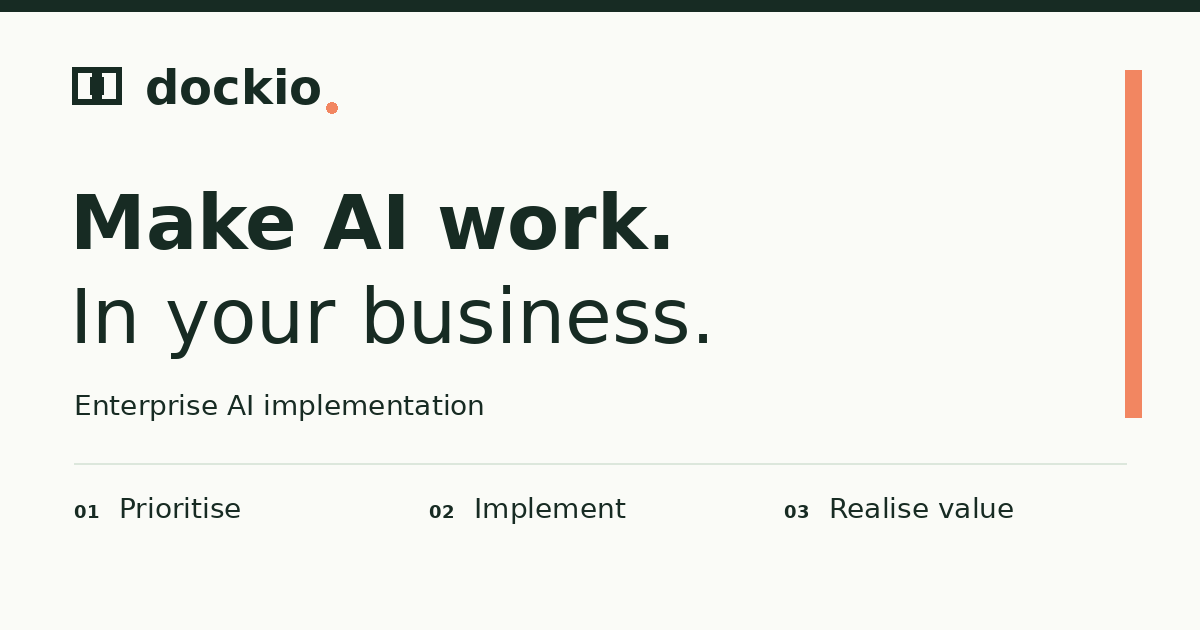
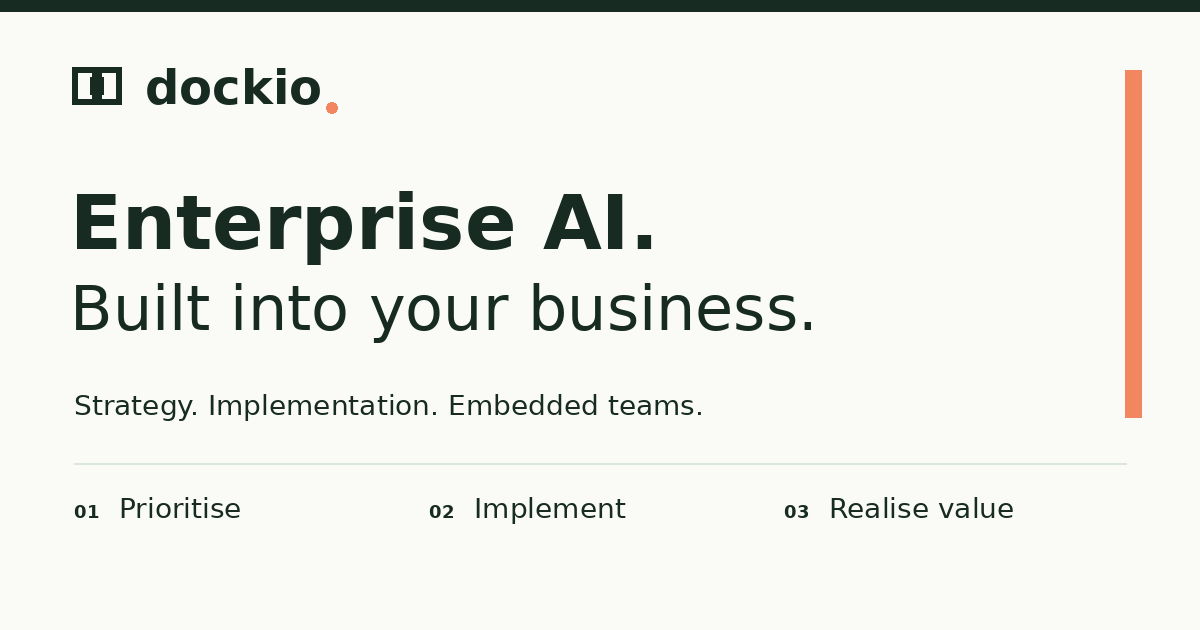
Create executive multi-page site and short enquiry flow (#22)

Changed region(s): [[0.0617, 0.4524, 0.6783, 0.573], [0.0617, 0.3016, 0.555, 0.4222], [0.0617, 0.6333, 0.5858, 0.6635]]

diff --git a/dockio-site/enterprise.css b/dockio-site/enterprise.css
@@ -1,0 +1,12 @@
+.enterprise-brand-type{display:flex;flex-direction:column;gap:5px;line-height:.85}.enterprise-brand-type>span{white-space:nowrap}.enterprise-brand-type small{font-size:9px;letter-spacing:.14em;text-transform:uppercase;font-weight:500;color:#617164;line-height:1.2}.site-header .nav-link>span{display:none}.enterprise-nav-book{display:flex;align-items:center;gap:10px;font-size:11px;white-space:nowrap;text-decoration:none;color:#42594a}.enterprise-nav-book:hover{color:#b15d3e}.enterprise-nav-book span{font-size:13px}.enterprise-button{display:inline-flex;align-items:center;justify-content:space-between;gap:28px;background:#173c2d;color:#fff;text-decoration:none;padding:16px 21px;font-size:13px;min-height:52px;box-sizing:border-box;transition:background .2s}.enterprise-button:hover{background:#2b5540}.enterprise-button span{font-weight:400}.enterprise-link,.enterprise-text-action,.enterprise-book{display:inline-flex;align-items:center;gap:17px;font-size:13px;line-height:1.6;color:inherit;text-decoration:none}.enterprise-link{border-bottom:1px solid #b6c5b0;padding-bottom:6px;margin-top:20px}.enterprise-link:hover,.enterprise-book:hover,.enterprise-text-action:hover{color:#a85b3d}.enterprise-text-action{padding:13px 0}.enterprise-actions{display:flex;gap:25px;align-items:center;flex-wrap:wrap;margin-top:29px}.enterprise-home-hero{display:grid;grid-template-columns:1.08fr .92fr;background:#f1f4ec;min-height:630px}.enterprise-home-copy{padding:62px 5vw 53px;display:flex;flex-direction:column;align-items:flex-start;justify-content:center}.enterprise-home-copy h1{font-size:clamp(49px,5.5vw,82px);font-weight:400;letter-spacing:-.065em;line-height:1.025;margin:23px 0 22px;color:#173c2d}.enterprise-home-copy h1 em{font-style:normal;color:#7c8f75}.enterprise-home-copy>p{font-size:18px;line-height:1.65;max-width:480px;color:#526355;margin:0}.enterprise-home-credential{display:flex;align-items:center;gap:23px;margin-top:34px;color:#60705f;font-size:11px;line-height:1.7}.enterprise-home-credential img{width:134px;height:auto;background:#fff;padding:7px}.enterprise-home-photo{position:relative;margin:0;min-width:0;overflow:hidden}.enterprise-home-photo>img{width:100%;height:100%;object-fit:cover;object-position:43% 50%;position:absolute}.enterprise-home-photo:after{content:'';position:absolute;inset:55% 0 0;background:linear-gradient(transparent,#102d22c2)}.enterprise-home-photo figcaption{position:absolute;z-index:1;bottom:27px;left:30px;right:25px;color:#fff}.enterprise-home-photo figcaption>span{font-size:18px;line-height:1.5;display:block}.enterprise-home-photo small{display:block;font-size:8px;letter-spacing:.1em;text-transform:uppercase;opacity:.8;margin-top:9px}.enterprise-industry-strip{display:grid;grid-template-columns:auto 1fr auto;gap:30px;align-items:center;padding-top:25px;padding-bottom:25px;border-bottom:1px solid #ced7c7}.enterprise-industry-strip>span{font-size:9px;font-weight:600;letter-spacing:.12em;color:#8d4c37}.enterprise-industry-strip>div{display:flex;gap:25px;justify-content:center;flex-wrap:wrap}.enterprise-industry-strip .enterprise-link{font-size:12px;margin:0;border:0;padding:0;white-space:nowrap}.enterprise-industry-strip>div .enterprise-link span{display:none}.enterprise-industry-strip>.enterprise-link{font-size:11px;border-bottom:1px solid #bdc8b7;padding-bottom:4px}.enterprise-section{padding-top:78px;padding-bottom:78px}.enterprise-section-head{margin-bottom:37px}.enterprise-section h2,.enterprise-home-offer h2,.enterprise-close h2,.enterprise-related h2{font-size:clamp(32px,3.7vw,51px);font-weight:400;letter-spacing:-.047em;line-height:1.12;margin:17px 0}.enterprise-two{display:grid;grid-template-columns:1fr 1fr;gap:7%}.enterprise-buyer{border-top:1px solid #aebda5;padding-top:25px}.enterprise-buyer>span{font-size:10px;letter-spacing:.1em;color:#8d4c37;font-weight:600}.enterprise-buyer h3{font-size:31px;font-weight:400;letter-spacing:-.03em;line-height:1.18;margin:24px 0 17px}.enterprise-buyer p{font-size:16px;line-height:1.7;color:#536456;max-width:470px}.enterprise-soft{background:#edf2e8}.enterprise-home-offer{padding:66px 0 75px}.enterprise-offer-title{display:flex;align-items:flex-end;justify-content:space-between;gap:30px;margin-bottom:30px}.enterprise-offer-title>.enterprise-link{margin-bottom:17px}.enterprise-offer-links{display:grid;grid-template-columns:repeat(4,1fr);gap:28px}.enterprise-offer-links>a{position:relative;text-decoration:none;border-top:1px solid #b6c5ac;padding-top:23px;padding-right:18px;color:#173c2d;display:flex;flex-direction:column;align-items:flex-start}.enterprise-offer-links>a>span{font-size:10px;color:#8d4c37}.enterprise-offer-links h3{font-size:23px;font-weight:400;line-height:1.2;letter-spacing:-.02em;margin:22px 0 14px}.enterprise-offer-links p{font-size:13px;line-height:1.7;color:#60715e;margin:0}.enterprise-offer-links b{font-size:19px;font-weight:400;margin-top:18px}.enterprise-offer-links a:hover h3{text-decoration:underline;text-underline-offset:5px}.enterprise-close{padding:52px 0;background:#173c2d;color:white}.enterprise-close>.wrap{display:flex;align-items:center;justify-content:space-between;gap:40px}.enterprise-close h2{font-size:38px;margin:15px 0 0;max-width:620px}.enterprise-close .gsi-label{color:#e4ad91}.enterprise-close>.wrap>div:last-child{display:flex;flex-direction:column;align-items:flex-start;gap:16px;flex-shrink:0}.enterprise-close .enterprise-button{background:#f1f3e9;color:#173c2d;min-width:220px}.enterprise-close .enterprise-book{color:#fff;margin-left:3px;font-size:12px}.enterprise-page-head{padding-top:48px;padding-bottom:64px}.enterprise-page-head h1,.enterprise-trust-hero h1{font-size:clamp(42px,4.7vw,68px);font-weight:400;line-height:1.07;letter-spacing:-.055em;margin:21px 0 25px;max-width:900px}.enterprise-page-head>p,.enterprise-trust-hero p{font-size:19px;line-height:1.7;color:#526355;max-width:720px}.enterprise-fit{display:grid;grid-template-columns:.6fr 1.4fr;gap:6%;border-top:1px solid #c7d2bf;border-bottom:1px solid #c7d2bf;padding-top:30px;padding-bottom:30px}.enterprise-fit p{font-size:21px;line-height:1.6;max-width:760px;color:#425b48;margin:0}.enterprise-three{display:grid;grid-template-columns:repeat(3,1fr);gap:40px}.enterprise-three article{border-top:1px solid #b9c8b1;padding-top:24px}.enterprise-three article>span{font-size:10px;color:#9d563d}.enterprise-three h3{font-size:26px;font-weight:400;line-height:1.2;letter-spacing:-.025em;margin:24px 0 17px}.enterprise-three p,.enterprise-two p,.enterprise-related p{font-size:16px;line-height:1.75;color:#586b5a}.enterprise-related{display:grid;grid-template-columns:1.15fr .85fr;gap:10%;align-items:center}.enterprise-related>div:last-child{display:flex;flex-direction:column;align-items:flex-start;gap:15px}.enterprise-related .enterprise-link{margin-top:0}.enterprise-related h2{font-size:34px}.enterprise-service-list{padding-bottom:70px}.enterprise-service-list article{display:grid;grid-template-columns:45px 1fr 1.1fr;gap:35px;padding:38px 0;border-top:1px solid #c4d0bd}.enterprise-service-list article>span{font-size:10px;color:#9d563d;padding-top:8px}.enterprise-service-list h2{font-size:32px;line-height:1.17;font-weight:400;letter-spacing:-.035em;margin:0 0 16px}.enterprise-service-list p{font-size:16px;color:#526655;line-height:1.75;margin:0}.enterprise-service-list .enterprise-link{margin-right:20px;font-size:12px}.enterprise-sector-hub{display:grid;grid-template-columns:repeat(2,1fr);gap:42px 30px;padding-bottom:60px}.enterprise-sector-hub article{min-width:0}.enterprise-sector-image{display:block;height:270px;overflow:hidden}.enterprise-sector-image img{width:100%;height:100%;object-fit:cover;display:block;transition:transform .4s}.enterprise-sector-image:hover img{transform:scale(1.025)}.enterprise-sector-hub article>div{padding:22px 0}.enterprise-sector-hub h2{font-size:29px;line-height:1.2;font-weight:400;letter-spacing:-.03em;margin:11px 0 16px}.enterprise-sector-hub p{font-size:14px;color:#60715e;line-height:1.7;margin:0}.enterprise-sector-hub .enterprise-link{font-size:12px;margin-top:18px}.enterprise-sector-hub article:last-child{grid-column:1/-1;display:grid;grid-template-columns:1fr 1fr;gap:40px;align-items:center;background:#edf2e8}.enterprise-sector-hub article:last-child>div{padding:30px}.enterprise-trust-hero{background:#edf2e8;padding:52px 0 65px}.enterprise-trust-hero>.wrap{display:grid;grid-template-columns:1.45fr .55fr;gap:9%;align-items:center}.enterprise-trust-hero aside{border-left:1px solid #becdb4;padding:20px 0 20px 35px}.enterprise-trust-hero aside img{width:170px;height:auto;background:white;padding:11px;margin-bottom:22px}.enterprise-trust-hero aside>span{display:block;font-size:9px;letter-spacing:.12em;color:#8b4e39;font-weight:600}.enterprise-trust-hero aside p{font-size:14px;line-height:1.8;margin-top:17px}.enterprise-trust-hero aside .enterprise-link{font-size:12px}.enterprise-leader{display:grid;grid-template-columns:1fr 1fr;gap:9%}.enterprise-leader h3{font-size:30px;font-weight:400;letter-spacing:-.035em;margin:10px 0}.enterprise-leader>div>span{font-size:12px;color:#a35b3e}.enterprise-leader p{font-size:17px;line-height:1.8;color:#536756;margin:20px 0}.enterprise-experience-list>p{border-top:1px solid #c5d1be;padding-top:17px;margin-top:0;font-size:18px}.enterprise-experience-list>p>span{font-size:10px;color:#9d563d;margin-right:27px}.enterprise-experience-list small{font-size:11px;line-height:1.7;color:#67785f;display:block}.enterprise-evidence{display:grid;grid-template-columns:repeat(3,1fr);gap:35px}.enterprise-evidence article{border-top:1px solid #bccab4;padding-top:24px}.enterprise-evidence h3{font-size:24px;font-weight:400;letter-spacing:-.025em;line-height:1.25;margin:0 0 18px}.enterprise-evidence p{font-size:15px;line-height:1.75;color:#536756}.enterprise-evidence .enterprise-link{font-size:12px}.enterprise-company-facts{display:grid;grid-template-columns:1.3fr .7fr 1fr;gap:30px;padding-bottom:70px}.enterprise-company-facts>div{border-top:1px solid #c5d1be;padding-top:25px}.enterprise-company-facts span{font-size:9px;letter-spacing:.12em;color:#9d563d}.enterprise-company-facts p,.enterprise-company-facts a{font-size:14px;line-height:1.75;margin-top:15px;display:block}.enterprise-footer-main{display:grid;grid-template-columns:1.4fr repeat(3,1fr);gap:50px;padding:10px 0 50px}.enterprise-footer-main .footer-links .enterprise-link{display:block;border:0;font-size:12px;font-weight:400;padding:0;margin:0 0 11px}.enterprise-footer-main .footer-links .enterprise-link span{display:none}.enterprise-footer-main .footer-links h3{margin-bottom:22px}.enterprise-footer-bottom{display:flex;justify-content:space-between;border-top:1px solid #415b46;padding:22px 0 25px;font-size:9px;color:#cad6c5}.enterprise-footer-main .footer-brand p{font-size:13px;line-height:1.8}.enterprise-footer-main .footer-brand>a:not(.brand){font-size:12px}.enterprise-footer-main .footer-brand>span{font-size:11px}.enterprise-button:focus-visible,.enterprise-link:focus-visible,.enterprise-book:focus-visible,.enterprise-text-action:focus-visible,.enterprise-nav-book:focus-visible{outline:3px solid #b56d48;outline-offset:5px}
+/* A short requirement precedes optional detail and a separate calendar step. */
+.discussion-head{padding-top:36px;padding-bottom:35px}.discussion-head h1{font-size:clamp(42px,4.5vw,65px);letter-spacing:-.055em;line-height:1.08;font-weight:400}.discussion-head h1 em{color:#809475}.discussion-head .lead{font-size:18px;line-height:1.7;max-width:690px}.discussion-intake{grid-template-columns:.68fr 1.32fr;gap:75px;padding-bottom:75px}.discussion-intake aside h2{font-size:27px;font-weight:400}.discussion-steps{list-style:none;padding:0;margin:0 0 25px;display:flex;gap:20px;flex-wrap:wrap;font-size:11px;color:#687c61}.discussion-steps li{display:flex;align-items:center;gap:9px}.discussion-steps strong{font-weight:500;color:#173c2d}.discussion-steps li:first-child{color:#173c2d}.discussion-speak-first{background:#edf2e8;padding:23px 25px;margin:25px 0}.discussion-speak-first h3{font-size:19px;font-weight:400;margin:0 0 13px}.discussion-speak-first .text-link{font-size:13px}.discussion-speak-first p{font-size:12px!important;line-height:1.75!important}.discussion-context{border-left:2px solid #a6b896;padding:6px 0 6px 14px;font-size:12px;color:#5b7155;margin:0 0 26px}.discussion-outcome{margin-top:22px}.discussion-optional{color:#73816c;font-size:11px}.discussion-details{border-top:1px solid #c0cfb8;border-bottom:1px solid #c0cfb8;margin:25px 0}.discussion-details summary{cursor:pointer;font-size:13px;padding:19px 0;line-height:1.6;font-weight:500}.discussion-details-body{padding:8px 0 8px}.discussion-details-body .teams-form-grid{margin-bottom:20px}.discussion-privacy-note{font-size:11px!important;line-height:1.8!important;color:#64785d}.discussion-intake form>.button{margin-top:0}.discussion-intake form label{font-size:12px}.discussion-intake .teams-consent{font-size:11px;line-height:1.8;align-items:flex-start}.discussion-confirmation{padding:30px;background:#edf2e8;scroll-margin-top:110px}.discussion-confirmation h2{font-size:36px;font-weight:400;letter-spacing:-.04em;line-height:1.12;margin:18px 0 22px}.discussion-confirmation p{font-size:15px;line-height:1.75;color:#536655;margin:16px 0}.discussion-reference{font-size:12px!important;overflow-wrap:anywhere}.discussion-confirmation-actions{display:flex;flex-wrap:wrap;gap:14px;align-items:center;margin:25px 0}.discussion-confirmation-actions .button{font-size:12px}.discussion-confirmation>button{margin-top:20px}.discussion-intake input,.discussion-intake textarea,.discussion-intake select{font-size:15px}.discussion-intake [hidden]{display:none!important}
+@media(min-width:1600px){.enterprise-home-copy{padding-left:max(5vw,calc((100vw - 1440px)/2))}.enterprise-home-hero{min-height:700px}}
+@media(max-width:1200px){.enterprise-nav-book{display:none}#site-navigation{gap:24px}.enterprise-industry-strip{grid-template-columns:1fr auto;gap:16px}.enterprise-industry-strip>span{grid-column:1/-1}.enterprise-industry-strip>div{justify-content:flex-start;gap:25px}.enterprise-home-copy{padding:60px 5vw}.enterprise-home-copy h1{font-size:64px}.enterprise-home-copy>p{font-size:17px}.enterprise-home-hero{min-height:620px}.enterprise-home-credential{gap:15px}.enterprise-home-credential>span{font-size:10px}.enterprise-offer-links{gap:24px}.enterprise-offer-links h3{font-size:21px}}
+@media(max-width:950px){.enterprise-home-hero{grid-template-columns:1.1fr .9fr}.enterprise-home-copy h1{font-size:56px}.enterprise-home-copy{padding:50px 4vw}.enterprise-home-copy>p{font-size:16px}.enterprise-home-copy .enterprise-actions{gap:20px}.enterprise-home-copy .enterprise-button{font-size:12px;padding:14px 16px;gap:15px}.enterprise-home-credential{flex-wrap:wrap;gap:14px}.enterprise-home-credential img{width:122px}.enterprise-home-hero{min-height:620px}.enterprise-home-photo figcaption{left:22px;bottom:22px}.enterprise-home-photo figcaption>span{font-size:16px}.enterprise-offer-links{grid-template-columns:repeat(2,1fr);gap:35px}.enterprise-service-list article{grid-template-columns:28px 1fr 1.2fr;gap:24px}.enterprise-sector-hub{gap:30px 24px}.enterprise-sector-image{height:230px}.enterprise-sector-hub h2{font-size:26px}.enterprise-trust-hero>.wrap{grid-template-columns:1.3fr .7fr;gap:6%}.enterprise-trust-hero aside{padding-left:25px}.enterprise-trust-hero h1{font-size:53px}.enterprise-trust-hero aside img{width:145px}.enterprise-trust-hero .enterprise-actions{gap:15px}.discussion-intake{gap:40px}.enterprise-footer-main{gap:30px}}
+@media(max-width:880px){.enterprise-nav-book{display:flex;padding:21px 0 0;font-size:14px}.enterprise-brand-type small{font-size:8px}.enterprise-close>.wrap{align-items:flex-start}.enterprise-close h2{font-size:32px}.enterprise-close .enterprise-button{min-width:195px}.enterprise-three,.enterprise-evidence{gap:25px}.enterprise-three h3{font-size:23px}.enterprise-leader{gap:7%}.enterprise-related{gap:7%}.enterprise-footer-main{grid-template-columns:1.2fr 1fr 1fr}.enterprise-footer-main .footer-brand{grid-column:1/-1}.enterprise-footer-main .footer-links:last-child{grid-column:auto}}
+@media(max-width:680px){.enterprise-home-hero{grid-template-columns:1fr;min-height:0}.enterprise-home-copy{padding:42px 6% 40px}.enterprise-home-copy h1{font-size:clamp(48px,11.5vw,66px);margin:21px 0}.enterprise-home-copy>p{font-size:17px;max-width:470px}.enterprise-home-copy .gsi-label{font-size:9px}.enterprise-home-copy .enterprise-actions{gap:23px;margin-top:25px}.enterprise-home-copy .enterprise-button{font-size:12px;min-height:50px;padding:15px 18px;gap:23px}.enterprise-home-copy .enterprise-text-action{font-size:12px}.enterprise-home-credential{gap:18px;flex-wrap:nowrap;margin-top:30px}.enterprise-home-credential img{width:125px}.enterprise-home-credential>span{font-size:10px;line-height:1.8}.enterprise-home-photo{height:310px}.enterprise-home-photo>img{object-position:50% 42%}.enterprise-home-photo figcaption{left:24px;bottom:22px}.enterprise-home-photo figcaption>span{font-size:16px}.enterprise-industry-strip{grid-template-columns:1fr;padding-top:22px;padding-bottom:22px;gap:18px}.enterprise-industry-strip>span{grid-column:auto}.enterprise-industry-strip>div{gap:12px 23px}.enterprise-industry-strip .enterprise-link{font-size:12px}.enterprise-industry-strip>.enterprise-link{justify-self:start;font-size:11px}.enterprise-section{padding-top:55px;padding-bottom:55px}.enterprise-section-head{margin-bottom:30px}.enterprise-section h2,.enterprise-home-offer h2{font-size:36px}.enterprise-two{grid-template-columns:1fr;gap:34px}.enterprise-buyer h3{font-size:29px;margin-top:20px}.enterprise-buyer p{font-size:16px}.enterprise-buyer .enterprise-link{margin-top:17px}.enterprise-home-offer{padding:53px 0 57px}.enterprise-offer-title{display:block;margin-bottom:23px}.enterprise-offer-title>.enterprise-link{margin:9px 0 16px}.enterprise-offer-links{gap:29px 23px}.enterprise-offer-links h3{font-size:21px;line-height:1.2;margin:18px 0 13px}.enterprise-offer-links p{font-size:12px}.enterprise-close{padding:42px 0}.enterprise-close>.wrap{display:block}.enterprise-close h2{font-size:33px;max-width:350px}.enterprise-close>.wrap>div:last-child{margin-top:27px;gap:20px}.enterprise-close .enterprise-button{min-width:215px}.enterprise-page-head{padding-top:34px;padding-bottom:46px}.enterprise-page-head h1{font-size:44px;line-height:1.08;margin:20px 0 23px}.enterprise-page-head>p{font-size:17px}.enterprise-actions{gap:23px}.enterprise-fit{grid-template-columns:1fr;gap:18px;padding-top:26px;padding-bottom:26px}.enterprise-fit p{font-size:19px}.enterprise-three{grid-template-columns:1fr;gap:30px}.enterprise-three h3{font-size:27px;margin:20px 0 15px}.enterprise-related{grid-template-columns:1fr;gap:30px}.enterprise-related h2{font-size:31px}.enterprise-related>div:last-child{gap:18px}.enterprise-service-list{padding-bottom:45px}.enterprise-service-list article{grid-template-columns:22px 1fr;gap:12px 20px;padding:30px 0}.enterprise-service-list article>div:last-child{grid-column:2}.enterprise-service-list h2{font-size:29px;margin:0 0 15px}.enterprise-service-list p{font-size:15px}.enterprise-service-list .enterprise-link{font-size:12px;margin-top:21px}.enterprise-sector-hub{grid-template-columns:1fr;gap:25px;padding-bottom:40px}.enterprise-sector-image{height:250px}.enterprise-sector-hub h2{font-size:29px}.enterprise-sector-hub article:last-child{grid-column:auto;display:block}.enterprise-sector-hub article:last-child>div{padding:25px}.enterprise-trust-hero{padding:35px 0 42px}.enterprise-trust-hero>.wrap{grid-template-columns:1fr;gap:32px}.enterprise-trust-hero h1{font-size:43px;line-height:1.09}.enterprise-trust-hero p{font-size:17px}.enterprise-trust-hero .enterprise-actions{gap:19px}.enterprise-trust-hero aside{border-left:0;border-top:1px solid #becdb4;padding:28px 0 0}.enterprise-trust-hero aside img{width:140px;margin-bottom:20px}.enterprise-trust-hero aside p{max-width:400px;font-size:14px}.enterprise-leader{grid-template-columns:1fr;gap:33px}.enterprise-leader h3{font-size:29px}.enterprise-leader p{font-size:16px}.enterprise-experience-list p{font-size:18px}.enterprise-evidence{grid-template-columns:1fr;gap:30px}.enterprise-evidence h3{font-size:25px}.enterprise-company-facts{grid-template-columns:1fr;gap:25px;padding-bottom:55px}.enterprise-company-facts>div{padding-top:20px}.enterprise-company-facts p,.enterprise-company-facts a{margin-top:10px}.enterprise-footer-main{grid-template-columns:1fr 1fr;gap:30px 25px;padding:0 0 35px}.enterprise-footer-main .footer-brand{margin-bottom:5px}.enterprise-footer-main .footer-links:nth-child(2){grid-column:auto}.enterprise-footer-main .footer-links h3{margin-bottom:17px}.enterprise-footer-main .footer-links .enterprise-link{font-size:12px;margin-bottom:12px;line-height:1.7}.enterprise-footer-bottom{display:flex;flex-direction:column;gap:12px;font-size:9px;padding-bottom:24px}.discussion-head{padding-bottom:27px}.discussion-head h1{font-size:44px;line-height:1.08}.discussion-head .lead{font-size:17px}.discussion-intake{grid-template-columns:1fr;gap:30px;padding-bottom:55px}.discussion-intake aside h2{font-size:25px;margin-bottom:20px}.discussion-speak-first{margin:20px 0;padding:22px}.discussion-intake .teams-form-grid{grid-template-columns:1fr;gap:19px}.discussion-intake input,.discussion-intake select,.discussion-intake textarea{font-size:16px;min-height:46px}.discussion-intake .teams-consent input{min-height:18px}.discussion-confirmation{padding:25px}.discussion-confirmation h2{font-size:32px}.discussion-confirmation-actions{align-items:flex-start;flex-direction:column}.discussion-intake .teams-consent{font-size:11px}.discussion-intake .teams-form-grid label{font-size:12px}.discussion-steps{font-size:10px;gap:18px}}
+@media(prefers-reduced-motion:reduce){.enterprise-sector-image img,.enterprise-button{transition:none}}
+
+@media(max-width:680px){.discussion-intake>div{order:-1}.discussion-intake aside{border-top:1px solid #c0cfb8;padding-top:30px}.discussion-head{padding-top:26px}.discussion-head .lead{font-size:16px}.discussion-details-body .discussion-optional{margin-bottom:20px}}
+.discussion-confirmation-actions button.text-link{border:0;background:transparent;padding:10px 0;font:inherit;font-size:12px;color:#173c2d;text-decoration:underline;text-underline-offset:5px;cursor:pointer}

diff --git a/dockio-site/discussion-enquiry.js b/dockio-site/discussion-enquiry.js
@@ -1,0 +1,37 @@
+(()=>{
+ const form=document.querySelector('#discussion-enquiry');if(!form)return;
+ const status=document.querySelector('#discussion-submit-status'),button=form.querySelector('[type="submit"]'),confirmation=document.querySelector('#discussion-confirmation');
+ const query=new URLSearchParams(location.search);
+ const services={implementation:'AI implementation',integration:'AI implementation',workflows:'AI implementation','implementation-sprint':'AI implementation',teams:'Embedded AI teams','embedded-ai-teams':'Embedded AI teams',assessment:'AI strategy',embedded:'Embedded AI teams',budgetops:'Product / other enquiry',collaboration:'Product / other enquiry',strategy:'AI strategy',adoption:'Adoption & value',value:'Adoption & value',rfp:'RFI/RFP',rfi:'RFI/RFP'};
+ const industries={banking:'Banking & financial services','financial-services':'Banking & financial services',pharma:'Pharma & life sciences','pharma-life-sciences':'Pharma & life sciences',logistics:'Logistics & supply chain','logistics-supply-chain':'Logistics & supply chain',technology:'IT & software','it-software':'IT & software',retail:'Retail & consumer goods','retail-consumer-goods':'Retail & consumer goods'};
+ const audiences={delivery:'Product or delivery',product:'Product or delivery',executive:'Executive',leadership:'Executive',procurement:'Procurement'};
+ const context=[];
+ const service=services[query.get('service')];if(service){form.elements.intent.value=service;context.push(service);}
+ const industry=industries[query.get('industry')];if(industry){form.elements.industry.value=industry;context.push(industry);}
+ const audience=audiences[query.get('audience')];if(audience)form.elements.audience.value=audience;
+ if(context.length){const note=document.querySelector('#discussion-context');note.textContent='Your discussion: '+context.join(' / ');note.hidden=false;}
+ const endpoint=location.hostname==='sankalpmore.github.io'?'https://www.dockio.in/api/enquiries':'/api/enquiries';
+ const newId=()=>{const b=crypto.getRandomValues(new Uint8Array(16));b[6]=(b[6]&15)|64;b[8]=(b[8]&63)|128;const h=Array.from(b,x=>x.toString(16).padStart(2,'0')).join('');return `${h.slice(0,8)}-${h.slice(8,12)}-${h.slice(12,16)}-${h.slice(16,20)}-${h.slice(20)}`;};
+ let pendingKey=newId(),meetingBrief='';
+ const changed=()=>{pendingKey=newId();status.textContent='';};
+ form.addEventListener('input',changed);form.addEventListener('change',changed);
+ form.addEventListener('submit',async e=>{
+  e.preventDefault();if(!form.reportValidity())return;
+  if(form.elements.message.value.trim().length<30){status.textContent='Please add at least 30 characters about the work you need to change.';form.elements.message.focus();return;}
+  const file=form.elements.document.files[0];
+  if(file&&(file.size>5*1024*1024||!file.name.toLowerCase().endsWith('.pdf'))){status.textContent='Please attach a PDF no larger than 5 MB.';form.querySelector('.discussion-details').open=true;form.elements.document.focus();return;}
+  button.disabled=true;status.textContent='Sending your brief…';
+  try{
+   const data=new FormData(form);data.set('requestId',pendingKey);
+   const response=await fetch(endpoint,{method:'POST',body:data});
+   const result=await response.json();if(!response.ok)throw Error(result.error||'We could not save your requirement.');
+   form.hidden=true;confirmation.hidden=false;document.querySelector('#discussion-reference').textContent=result.reference;
+   document.querySelector('#discussion-received').textContent=result.preview?'Preview only: this test brief was saved locally, not sent to Dockio.':'Your requirement has been saved for Dockio to review.';
+   meetingBrief=`Dockio discussion\nEnquiry reference: ${result.reference}\nCompany: ${String(data.get('company')).trim()}\nRequirement: ${data.get('intent')}\n${data.get('timeline')?'Timing: '+data.get('timeline')+'\n':''}${data.get('industry')?'Industry: '+data.get('industry')+'\n':''}\n${String(data.get('message')).trim()}`;
+   confirmation.querySelector('h2').focus();confirmation.scrollIntoView({behavior:matchMedia('(prefers-reduced-motion: reduce)').matches?'instant':'smooth',block:'start'});
+  }catch(error){status.textContent=(error.message||'We could not save your requirement.')+' Your brief is still here. Please retry, or email sankalp@dockio.in.';}
+  finally{button.disabled=false;}
+ });
+ document.querySelector('#discussion-copy-brief').addEventListener('click',async()=>{const copyStatus=document.querySelector('#discussion-copy-status');try{if(!navigator.clipboard?.writeText)throw Error('Clipboard unavailable');await navigator.clipboard.writeText(meetingBrief);copyStatus.textContent='Brief and reference copied. Paste them into the meeting details if useful.';}catch{copyStatus.textContent='Copy is unavailable in this browser. Keep the enquiry reference above for your discussion.';}});
+ document.querySelector('#discussion-new-enquiry').addEventListener('click',()=>{form.reset();form.hidden=false;confirmation.hidden=true;status.textContent='';document.querySelector('#discussion-copy-status').textContent='';meetingBrief='';pendingKey=newId();document.querySelector('#discussion-context').hidden=true;form.elements.name.focus();});
+})();

diff --git a/dockio-site/release.js b/dockio-site/release.js
@@ -43,7 +43,7 @@
   const url=new URL(location.href),requested=location.hash.slice(1).split('?')[0].replace(/\/$/,'')||'/';
   const aliases={'/case-studies':'/insights','/partner-readiness':'/about','/engagements/workflow-sprint':'/services/implementation-sprint','/engagements/embedded':'/services/integration','/engagements/embedded-delivery':'/services/integration'};
   const route=aliases[requested]||requested;
-  const known=['/industries/pharma-life-sciences','/industries/logistics-supply-chain','/industries/it-software','/industries/retail-consumer-goods','/delivery-example','/engagements/workflow-sprint','/engagements/embedded','/engagements/embedded-delivery','/','/services','/services/strategy','/services/integration','/services/workflows','/services/adoption','/services/implementation-sprint','/industries','/industries/financial-services','/industries/private-equity','/industries/enterprise-operations','/industries/professional-services','/openai','/approach','/budgetops','/about','/contact','/privacy','/insights','/insights/beyond-the-pilot','/insights/start-with-the-work','/insights/beyond-usage'];
+  const known=['/why-dockio','/industries/pharma-life-sciences','/industries/logistics-supply-chain','/industries/it-software','/industries/retail-consumer-goods','/delivery-example','/engagements/workflow-sprint','/engagements/embedded','/engagements/embedded-delivery','/','/services','/services/strategy','/services/integration','/services/workflows','/services/adoption','/services/implementation-sprint','/industries','/industries/financial-services','/industries/private-equity','/industries/enterprise-operations','/industries/professional-services','/openai','/approach','/budgetops','/about','/contact','/privacy','/insights','/insights/beyond-the-pilot','/insights/start-with-the-work','/insights/beyond-usage'];
   if(known.includes(route)){const q=location.hash.split('?')[1];location.replace((route==='/'?'/':route+'/')+(q?'?'+q:''));}
  }
 })();

diff --git a/dockio-site/create-social-image.py b/dockio-site/create-social-image.py
@@ -27,9 +27,9 @@ draw.rectangle((0, 0, 1199, 11), fill=FOREST)
 mark(draw, 64, 53, 66, FOREST, 6)
 draw.text((145, 59), 'dockio', font=ImageFont.truetype(BOLD, 48), fill=FOREST)
 draw.ellipse((326, 102, 337, 113), fill=ORANGE)
-draw.text((70, 178), 'Make AI work.', font=ImageFont.truetype(BOLD, 76), fill=FOREST)
-draw.text((70, 272), 'In your business.', font=ImageFont.truetype(FONT, 76), fill=FOREST)
-draw.text((74, 389), 'Enterprise AI implementation', font=ImageFont.truetype(FONT, 28), fill=FOREST)
+draw.text((70, 178), 'Enterprise AI.', font=ImageFont.truetype(BOLD, 76), fill=FOREST)
+draw.text((70, 272), 'Built into your business.', font=ImageFont.truetype(FONT, 62), fill=FOREST)
+draw.text((74, 389), 'Strategy. Implementation. Embedded teams.', font=ImageFont.truetype(FONT, 28), fill=FOREST)
 draw.line((74, 463, 1126, 463), fill=SAGE, width=2)
 for index, (label, text) in enumerate((('01', 'Prioritise'), ('02', 'Implement'), ('03', 'Realise value'))):
     x = 74 + index*355

diff --git a/README.md b/README.md
@@ -11,7 +11,7 @@ The public custom domain belongs to the Sites project returned by `get_site`. Th
 
 ## Build and edit
 
-`npm run build` generates 29 canonical content pages, five preserved-route redirects and a 404 page into `dist/`. `npm run dev` serves the build. The server accepts `--host` and `--port`.
+`npm run build` generates 34 canonical content pages, five preserved-route redirects and a 404 page into `dist/`. `npm run dev` serves the build. The server accepts `--host` and `--port`.
 
 - `dockio-site/source/`: retained page templates and base visual system.
 - `select-release.mjs`: engagement, partnership and industry content.
@@ -22,6 +22,8 @@ The public custom domain belongs to the Sites project returned by `get_site`. Th
 - `finalize-release.mjs`: composed release entry point.
 - `seo-content.mjs` and `seo.css`: page metadata, buyer FAQs, breadcrumbs and related-page links.
 - `search-metadata.mjs`: canonical aliases and grounded Organization, WebSite, WebPage, Service and breadcrumb data.
+- `enterprise-release.mjs` and `enterprise.css`: concise homepage, service destinations, industry directory, executive trust and navigation.
+- `discussion-enquiry.mjs` and `.js`: short business requirement capture followed by Microsoft Bookings.
 - `build.mjs`: canonical URL rendering, social cards, sitemap and robots.txt generation; replaces only a dedicated `dist/` output.
 - `create-social-image.py`: reproduces Dockio’s PNG logo, favicon and social card with Pillow.
 
@@ -29,15 +31,15 @@ The original React source is retained for reference, not used by the active stat
 
 ## Content and interaction boundaries
 
-Dockio is an owner-confirmed OpenAI Select Partner. Preserve the supplied partner artwork and clear space. Banking and financial services leads; private equity, enterprise operations and professional services remain available. No unverified clients, results, testimonials or higher partner tiers.
+Dockio is an owner-confirmed OpenAI Select Partner. Preserve the supplied partner artwork and clear space. The industry directory covers banking, pharma, logistics, IT and retail. Private equity, enterprise operations and professional services remain available. No unverified clients, results, testimonials or higher partner tiers.
 
 The workflow example is synthetic and runs locally without model calls. BudgetOps is explicitly in development. The enterprise-workshop image is illustrative, not a photograph of Dockio employees or customers.
 
-The Microsoft Bookings destination and `sankalp@dockio.in` are preserved. The general contact form prepares a local email draft. The dedicated `/request-ai-team/` form submits actual requirements and an optional PDF (5 MB maximum) to `/api/enquiries`. After successful storage it offers the verified Microsoft Bookings calendar link. The current calendar refuses framing; enable inline scheduling only after obtaining and testing its supported embed configuration. No email notification or appointment is automatically sent/booked. No advertising analytics or CRM integration is added.
+The Microsoft Bookings destination and `sankalp@dockio.in` are preserved. The short `/contact/` form and detailed `/request-ai-team/` form submit actual requirements and an optional PDF (5 MB maximum) to `/api/enquiries`. After successful storage it offers the verified Microsoft Bookings calendar link. The current calendar refuses framing; enable inline scheduling only after obtaining and testing its supported embed configuration. No email notification or appointment is automatically sent/booked. No advertising analytics or CRM integration is added.
 
 ## Release both copies
 
-1. Build and verify the source; check representative desktop/mobile navigation, delivery and BudgetOps tabs, enquiry drafting and booking links. Do not submit a real appointment or test email.
+1. Build and verify the source; check representative desktop/mobile navigation, delivery and BudgetOps tabs, short requirement submission and booking links. Do not submit a real appointment or test email.
 2. Commit and push to GitHub, merge the reviewed branch to `main`, and check the Pages workflow for that commit.
 3. Open the existing public Site using fresh repository credentials through hidden stdin. Preserve its audience and source history.
 4. From the clean GitHub checkout, run `node scripts/prepare-sites-copy.mjs /absolute/path/to/opened-sites-checkout`. It records the GitHub commit and preserves the selected hosting identity.
